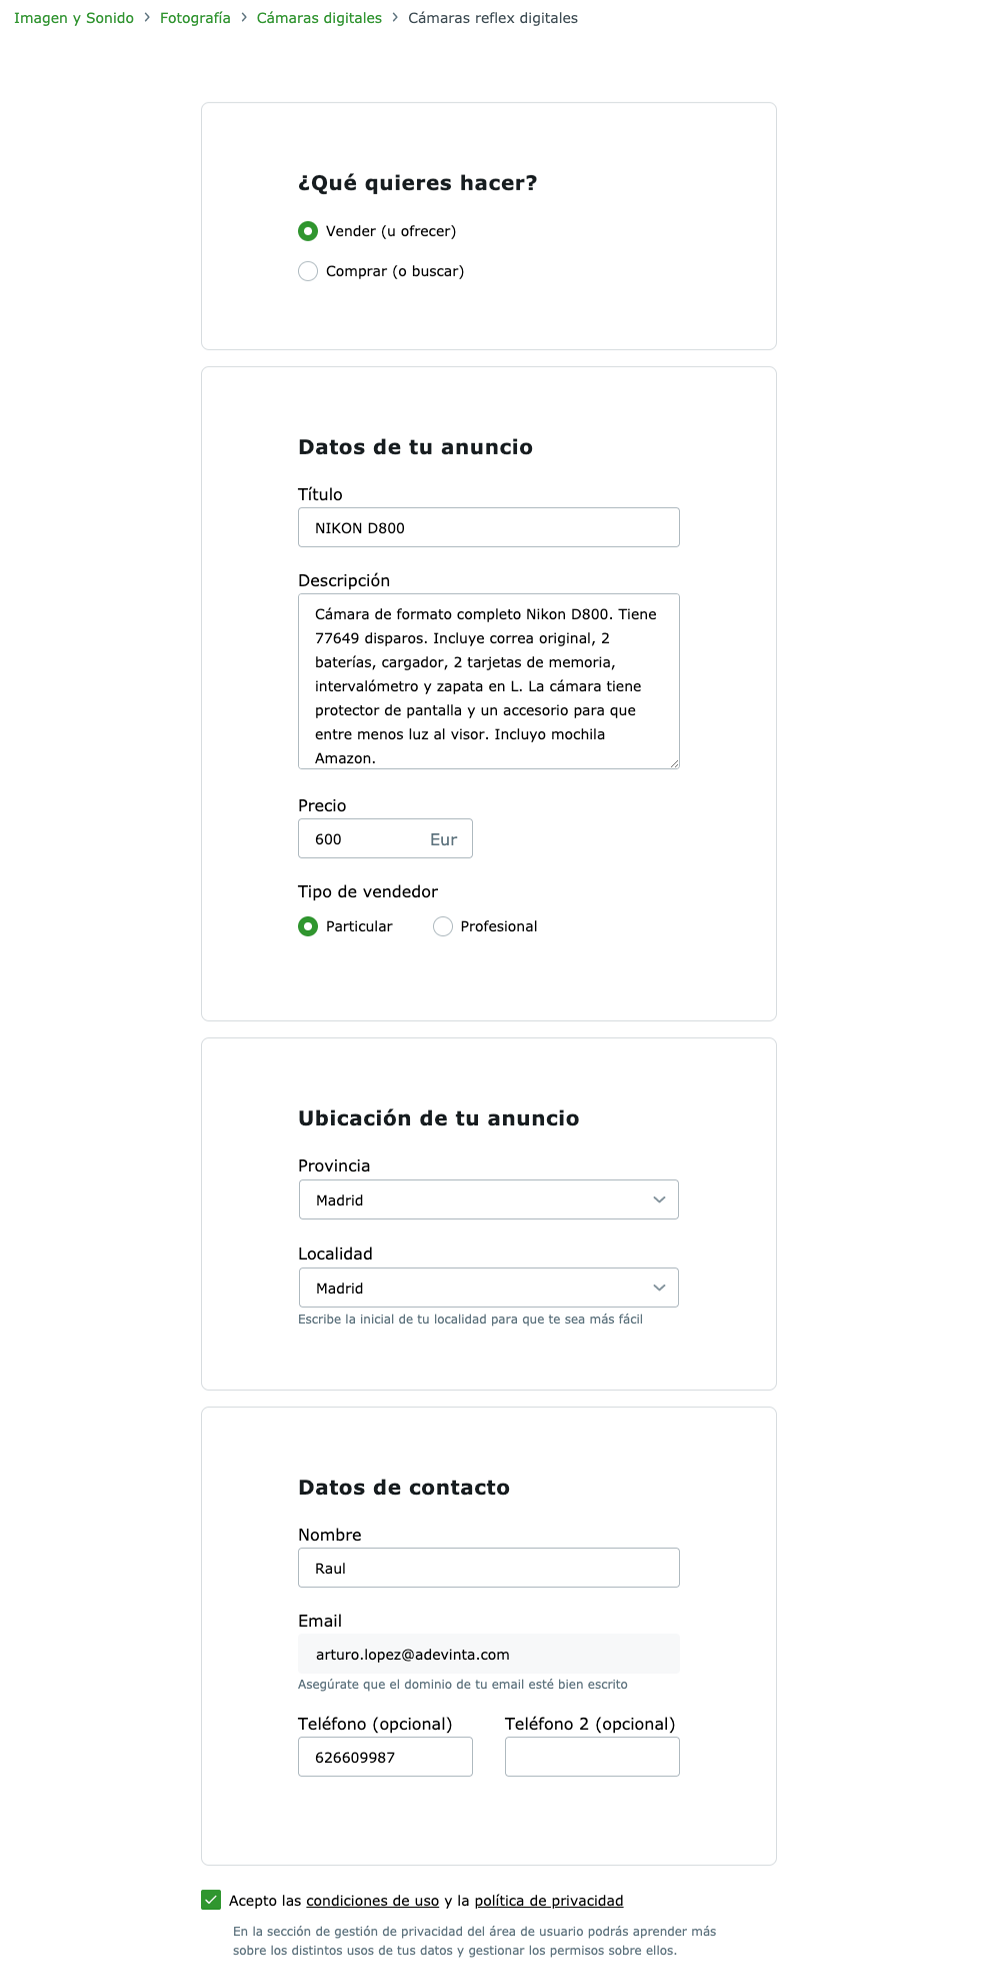
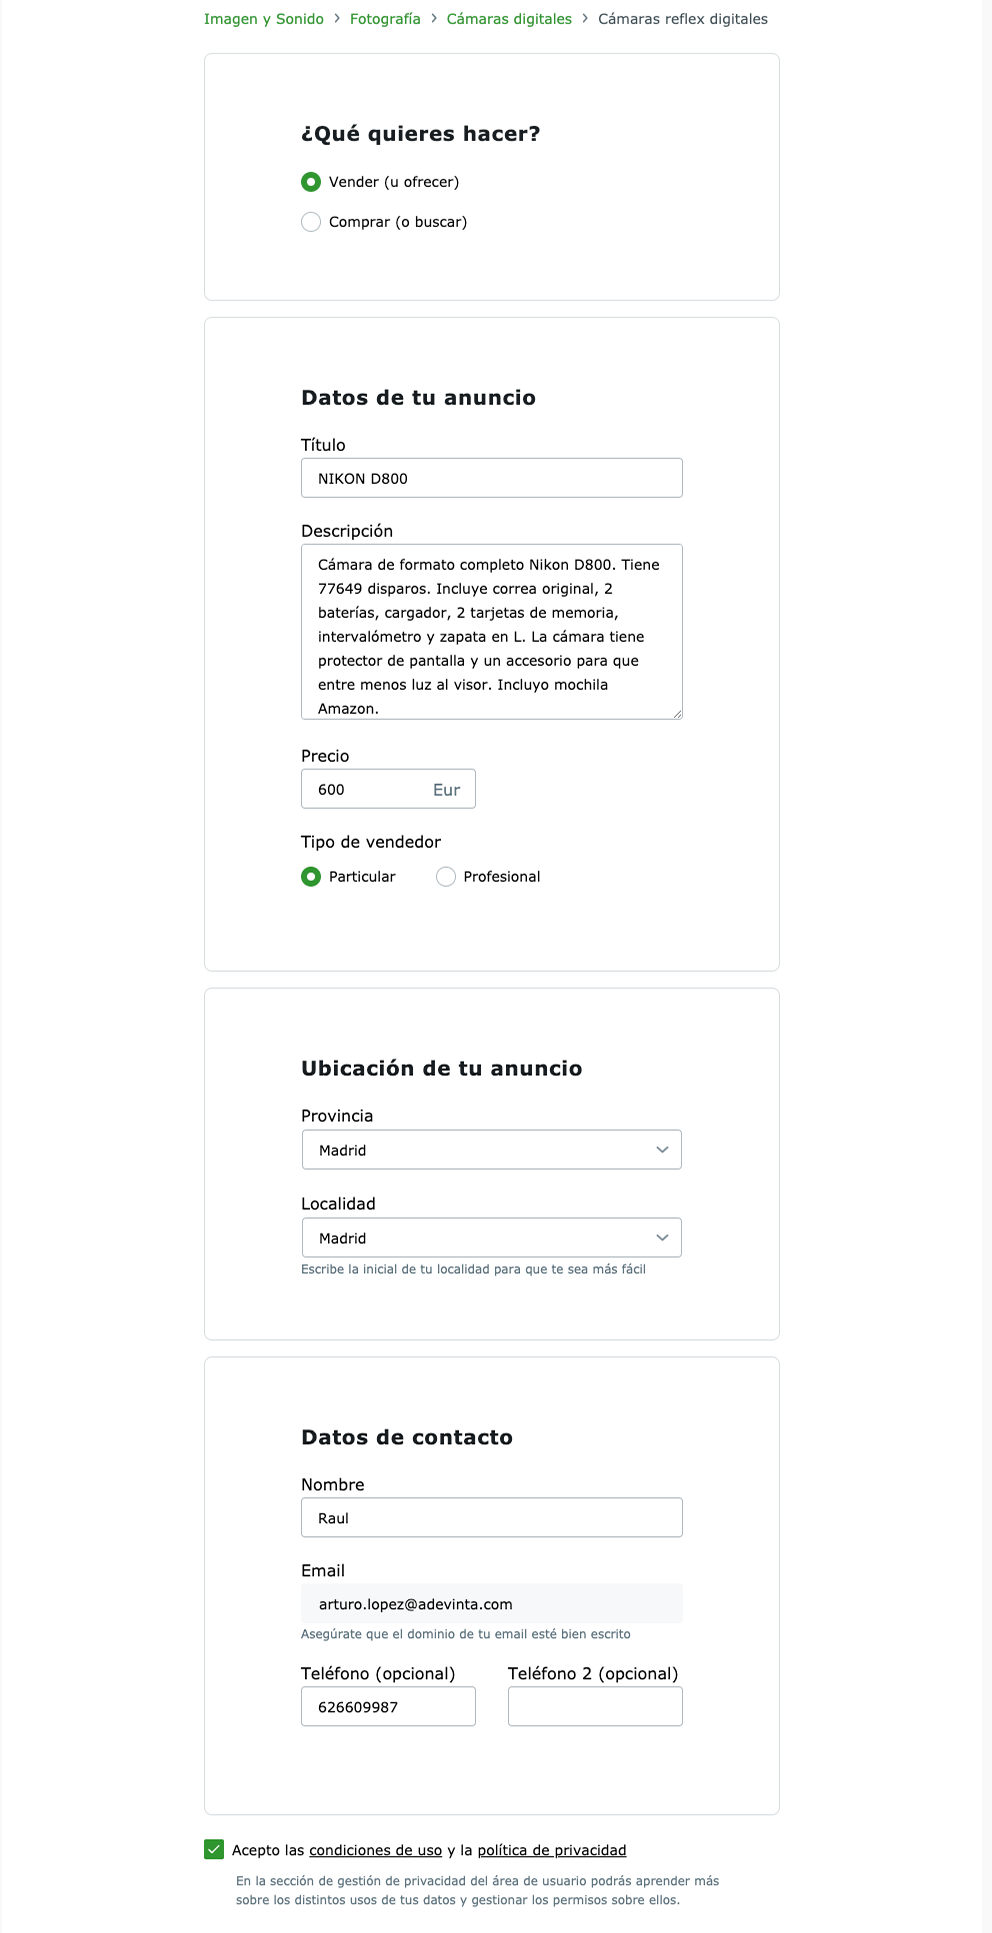
add hover for clickable images

diff --git a/pages/Publicar/index.js b/pages/Publicar/index.js
@@ -13,9 +13,14 @@ export default function index() {
           </Head>
           <NavBar />
           <div className="MA_current_Desktop fade">
+            <img src="img/2020-11-MA-PTA-10.png" />
             <Link href="./Publicar-2">
-              <img src="img/2020-11-MA-PTA-1.png" />
+              <img
+                className="forceMeToLookClickableForPrototypes"
+                src="img/2020-11-MA-PTA-12.png"
+              />
             </Link>
+            <img src="img/2020-11-MA-PTA-13.png" />
             <img src="img/2020-11-MA-footer.png" />
           </div>
         </div>

diff --git a/pages/Publicar-4/index.js b/pages/Publicar-4/index.js
@@ -15,7 +15,10 @@ export default function index() {
           <div className="MA_current_Desktop fade">
             <img src="img/2020-11-MA-PTA-41.png" />
             <Link href="./Results">
-              <img src="img/2020-11-MA-PTA-42.png" />
+              <img
+                className="forceMeToLookClickableForPrototypes"
+                src="img/2020-11-MA-PTA-42.png"
+              />
             </Link>
             <img src="img/2020-11-MA-PTA-43.png" />
             <img src="img/2020-11-MA-footer.png" />

diff --git a/pages/navBar-Home/index.js b/pages/navBar-Home/index.js
@@ -16,7 +16,10 @@ export default function index() {
           <div className="MA_current_Desktop fade">
             <img src="img/2020-11-MA-home-0.png" />
             <Link href="./Results">
-              <img src="img/2020-11-MA-home-1.png" />
+              <img
+                className="forceMeToLookClickableForPrototypes"
+                src="img/2020-11-MA-home-1.png"
+              />
             </Link>
             <img src="img/2020-11-MA-home-2.png" />
             <img src="img/2020-11-MA-home-3.png" />

diff --git a/pages/Publicar-2/index.js b/pages/Publicar-2/index.js
@@ -15,7 +15,10 @@ export default function index() {
           <div className="MA_current_Desktop fade">
             <img src="img/2020-11-MA-PTA-20.png" />
             <Link href="./Publicar-3">
-              <img src="img/2020-11-MA-PTA-21.png" />
+              <img
+                className="forceMeToLookClickableForPrototypes"
+                src="img/2020-11-MA-PTA-21.png"
+              />
             </Link>
             <img src="img/2020-11-MA-footer.png" />
           </div>

diff --git a/pages/Publicar-3/index.js b/pages/Publicar-3/index.js
@@ -15,7 +15,10 @@ export default function index() {
           <div className="MA_current_Desktop fade">
             <img src="img/2020-11-MA-PTA-30.png" />
             <Link href="./Publicar-4">
-              <img src="img/2020-11-MA-PTA-31.png" />
+              <img
+                className="forceMeToLookClickableForPrototypes"
+                src="img/2020-11-MA-PTA-31.png"
+              />
             </Link>
             <img src="img/2020-11-MA-footer.png" />
           </div>

diff --git a/styles/globals.scss b/styles/globals.scss
@@ -157,9 +157,10 @@ ul {
     img {
       width: 100%;
       height: auto;
-      &:hover{
-        cursor: pointer;
-      }
+      
+    }
+    .forceMeToLookClickableForPrototypes{
+      cursor: pointer;
     }
   }
 // }
